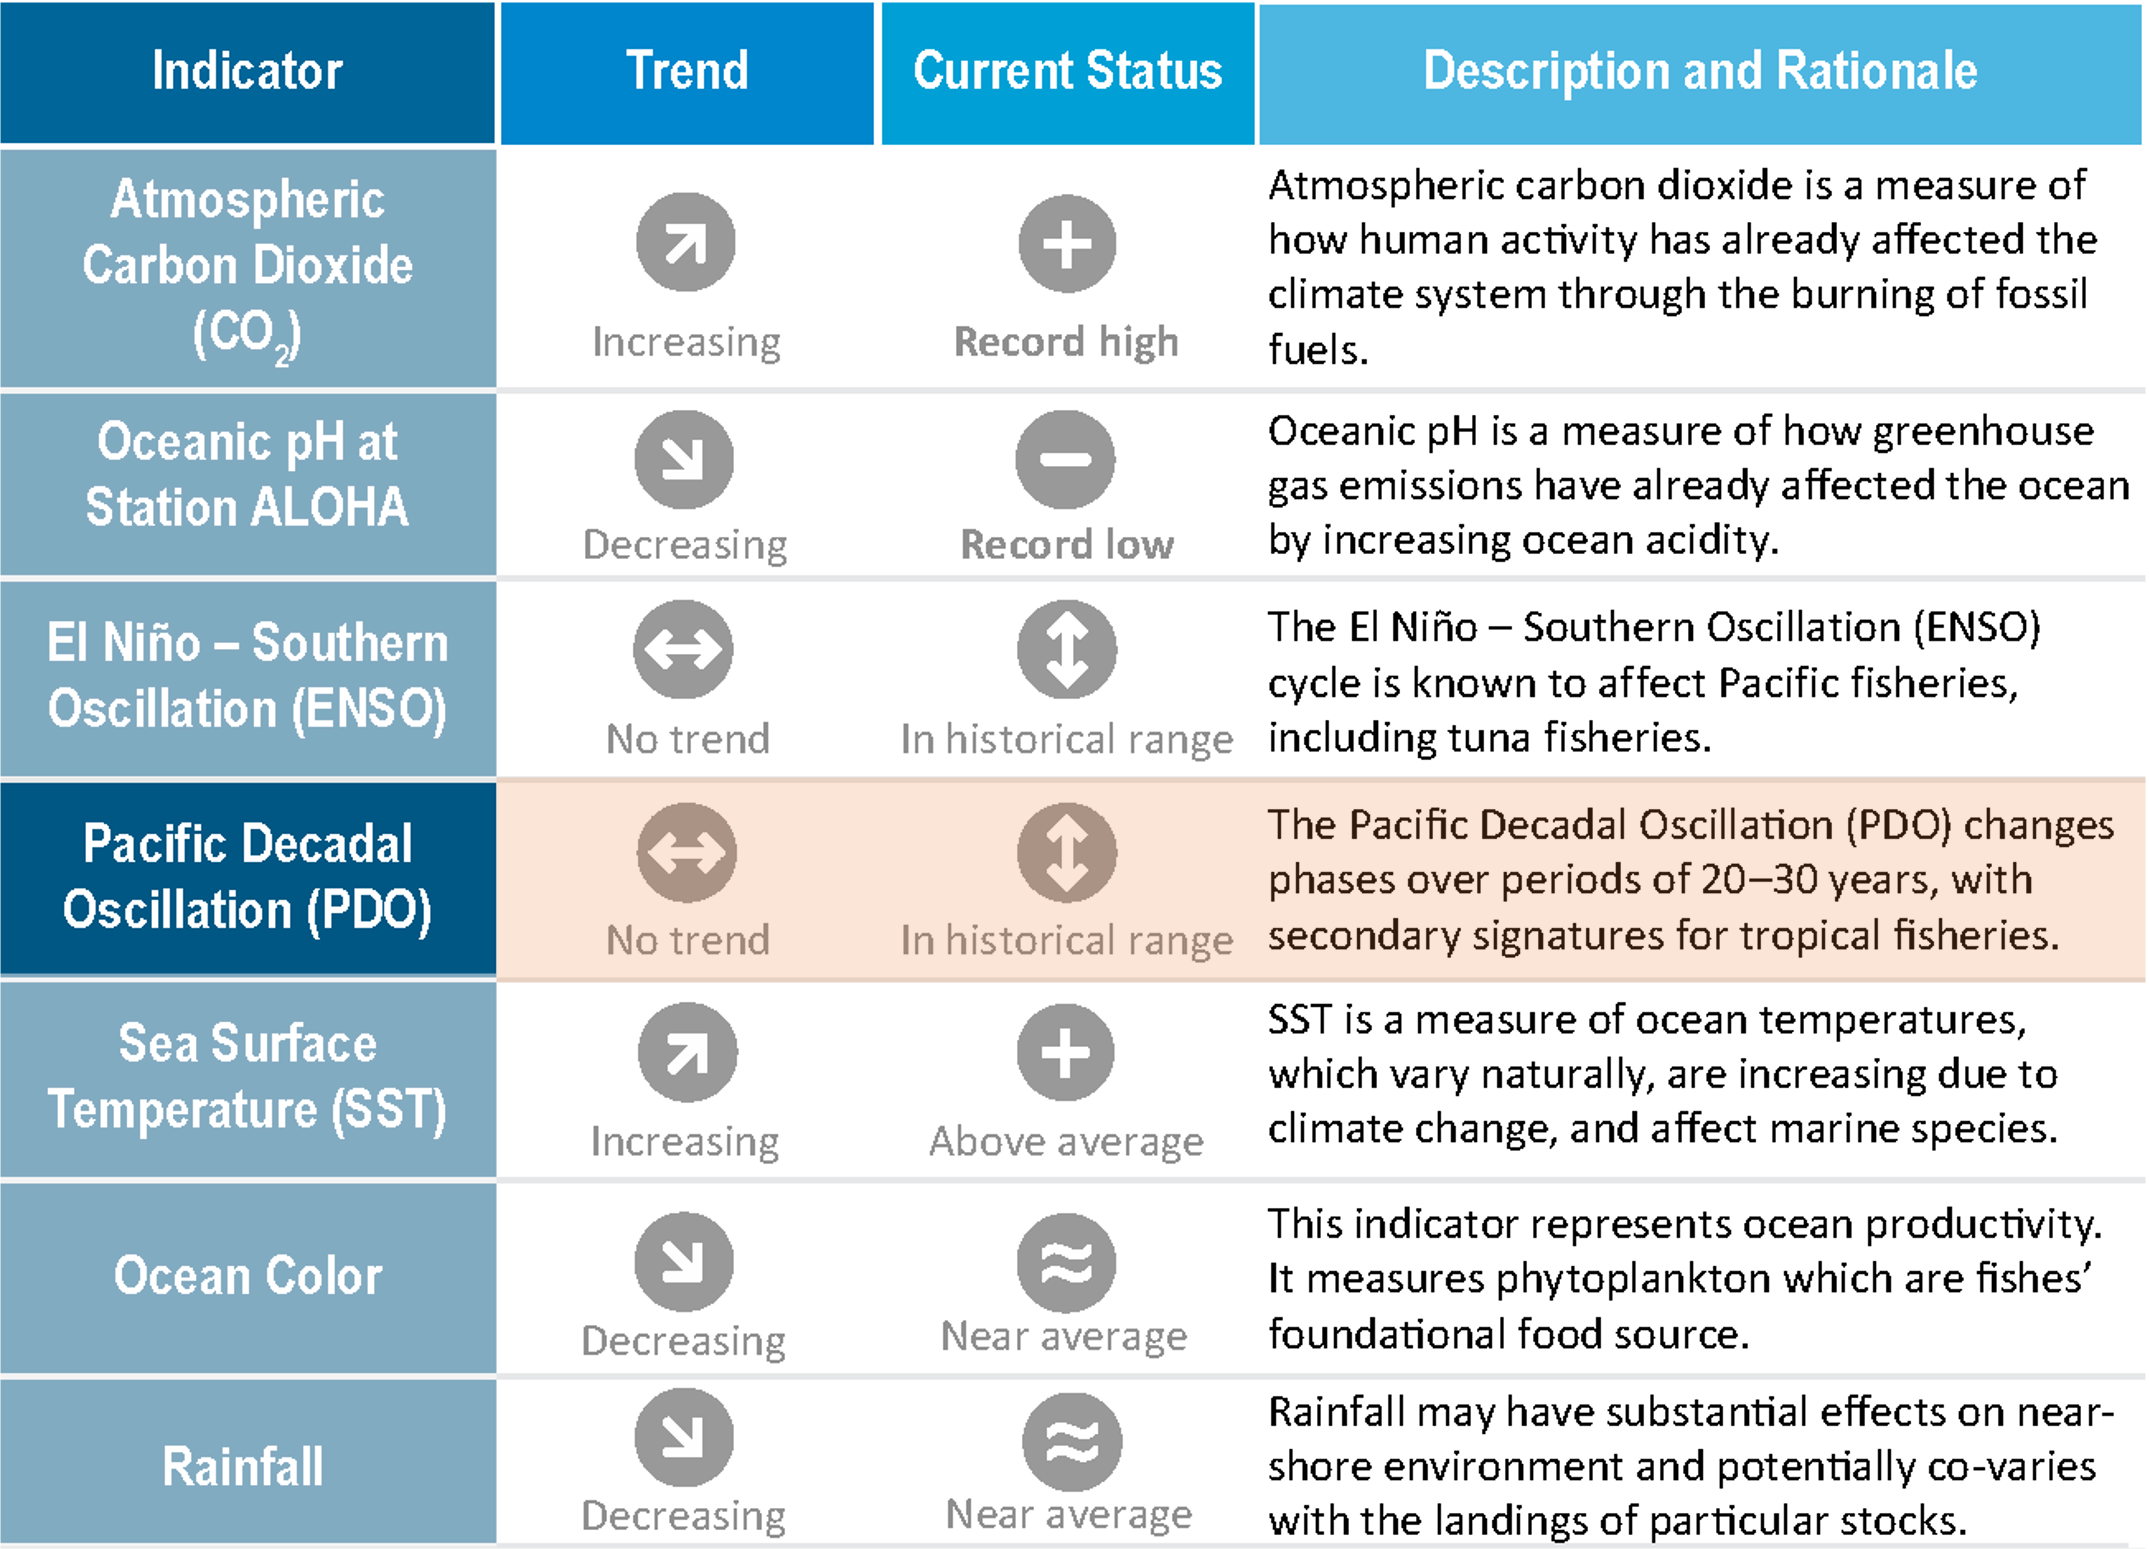
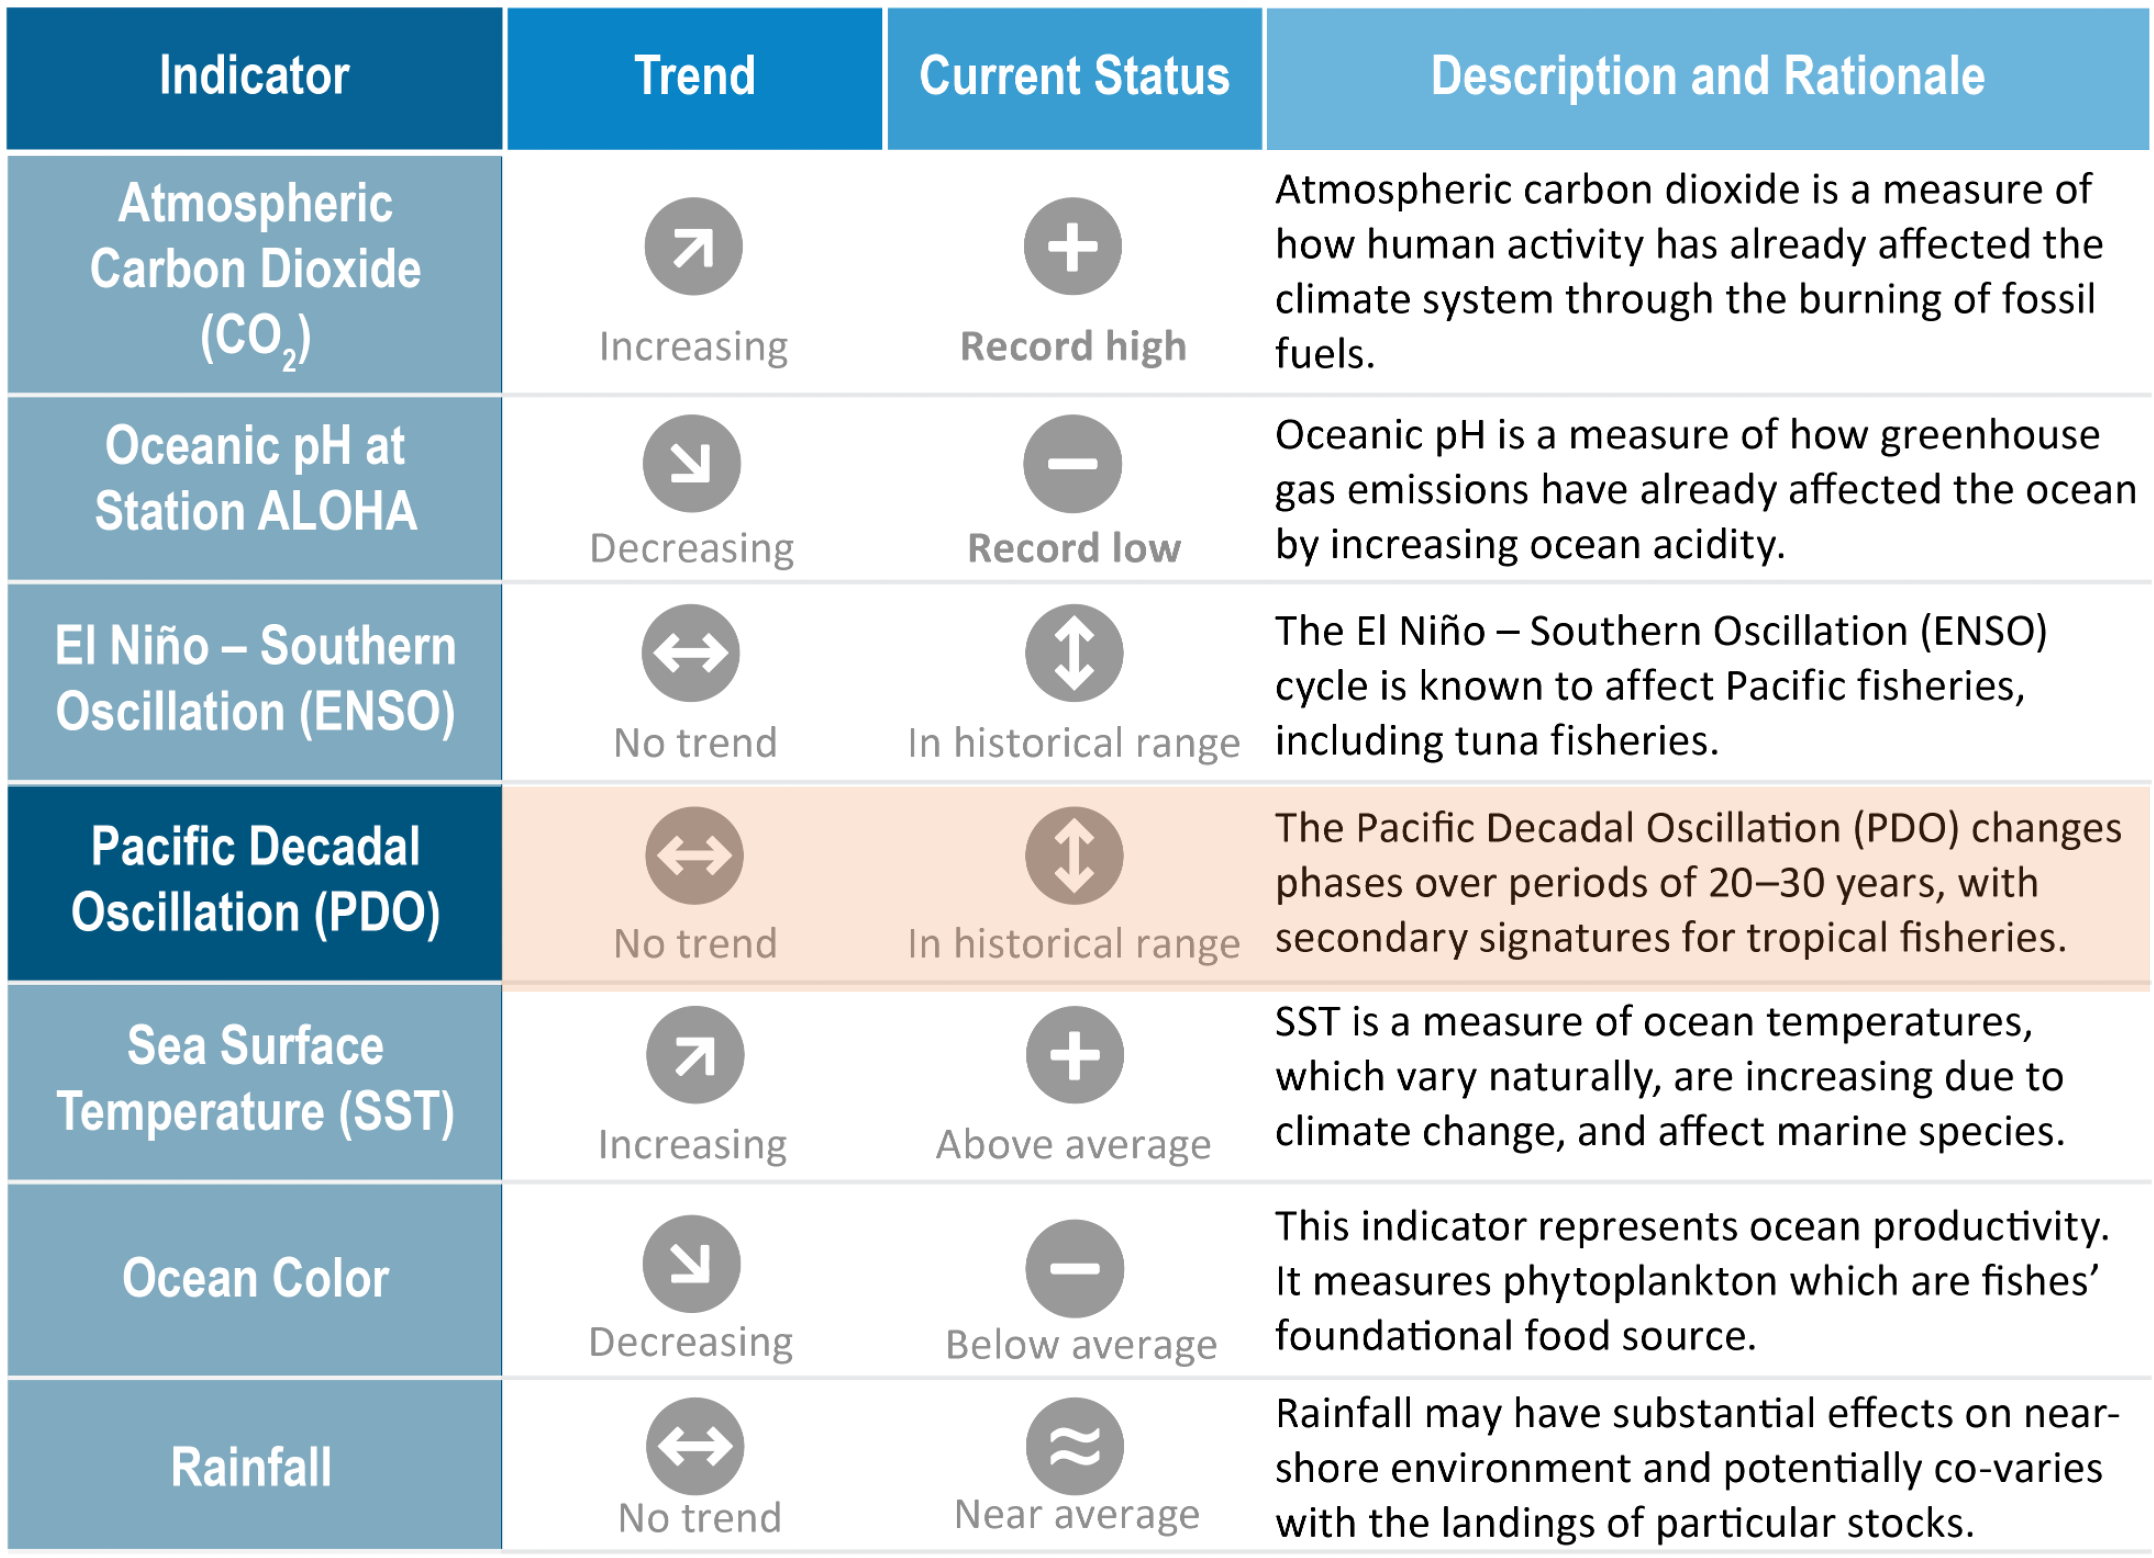
modify description and images

diff --git a/Indicator_Dashboard/Descriptions/SST_description.md b/Indicator_Dashboard/Descriptions/SST_description.md
@@ -10,13 +10,13 @@ which organisms are impacted and the time scales of these impacts is an
 area of active research.
 
 **Status of the Indicator**  
-Annual mean SST was 25.8 ºC in 2023. Over the period of record, SST has
+Annual mean SST was 25.7 ºC in 2024. Over the period of record, SST has
 increased by 0.6 ºC and the monthly SST anomaly increased by 0.6 ºC,
-both at a rate of roughly 0.0167 ºC yr<sup>-1</sup>. Monthly SST values
-in 2023 ranged from 24.6–26.9 ºC, within the range of temperatures
+both at a rate of roughly 0.016 ºC yr<sup>-1</sup>. Monthly SST values
+in 2024 ranged from 24.1–27.1 ºC, within the range of temperatures
 experienced over the past several decades (23.3–28.5 ºC). Overall, SST
 was hotter than the long-term average across most of the Main Hawaiian
-islands in 2023, with some intensification in the northeast part of the
+islands in 2024, with some intensification in the northeast part of the
 region.
 
 **Indicator Data**  
@@ -38,7 +38,7 @@ Data available at:
 <https://oceanwatch.pifsc.noaa.gov/erddap/griddap/CRW_sst_v3_1_monthly>,
 <https://oceanwatch.pifsc.noaa.gov/erddap/griddap/CRW_sst_v3_1_1985-2009-clim>,
 and
-<https://oceanwatch.pifsc.noaa.gov/erddap/griddap/CRW_sst_v3_1_2023-clim>.
+<https://oceanwatch.pifsc.noaa.gov/erddap/griddap/CRW_sst_v3_1_2024-clim>.
 
 Sourced from: NOAA OceanWatch (2024a). Graphics produced in part using
 Stawitz (2023).
@@ -46,7 +46,7 @@ Stawitz (2023).
 **References**  
 NOAA OceanWatch (2024a):
 <https://oceanwatch.pifsc.noaa.gov/erddap/griddap/CRW_sst_v3_1_monthly>
-Accessed: 3 April 2024.
+Accessed: 31 March 2025.
 
 Stawitz C (2023): nmfspalette: A Color Palette for NOAA Fisheries. R
 package version 3.0.0.000.

diff --git a/Indicator_Dashboard/Descriptions/Rainfall_description.md b/Indicator_Dashboard/Descriptions/Rainfall_description.md
@@ -9,11 +9,7 @@ stocks.
 The rainfall over the Main Hawaiian Islands was 1.72 mm day<sup>-1</sup>
 in 2023. Monthly rainfall ranged from 0.386–5.24 mm day<sup>-1</sup>
 during the year, within the range of values observed over the period of
-record (0.241–7.53 mm day<sup>-1</sup>). Over the period of record,
-there has been weakly significant decline of 2.95^{-4} mm
-day<sup>-1</sup> yr<sup>-1</sup> in rainfall. Over the time series,
-rainfall has declined by 0.013 mm day<sup>-1</sup>. The monthly anomaly
-has declined by 0.019 mm day<sup>-1</sup>. Average rainfall was near
+record (0.241–7.53 mm day<sup>-1</sup>). Overall rainfall was near
 average in the Main Hawaiian Islands domain.
 
 **Indicator Data**  
@@ -59,10 +55,10 @@ Measurement Platform: In-situ station gauges and satellite data.
 Data available at:
 <http://apdrc.soest.hawaii.edu/erddap/griddap/hawaii_soest_bb7b_ce6a_f808.graph>.
 
-Sourced from: NOAA ESRL (2024).
+Sourced from: NOAA ERSL (2024).
 
 **References**  
-NOAA ESRL (2024):
+NOAA ERSL (2024):
 <http://apdrc.soest.hawaii.edu/erddap/griddap/hawaii_soest_bb7b_ce6a_f808.graph>
 Accessed: 4 April 2024.
 
